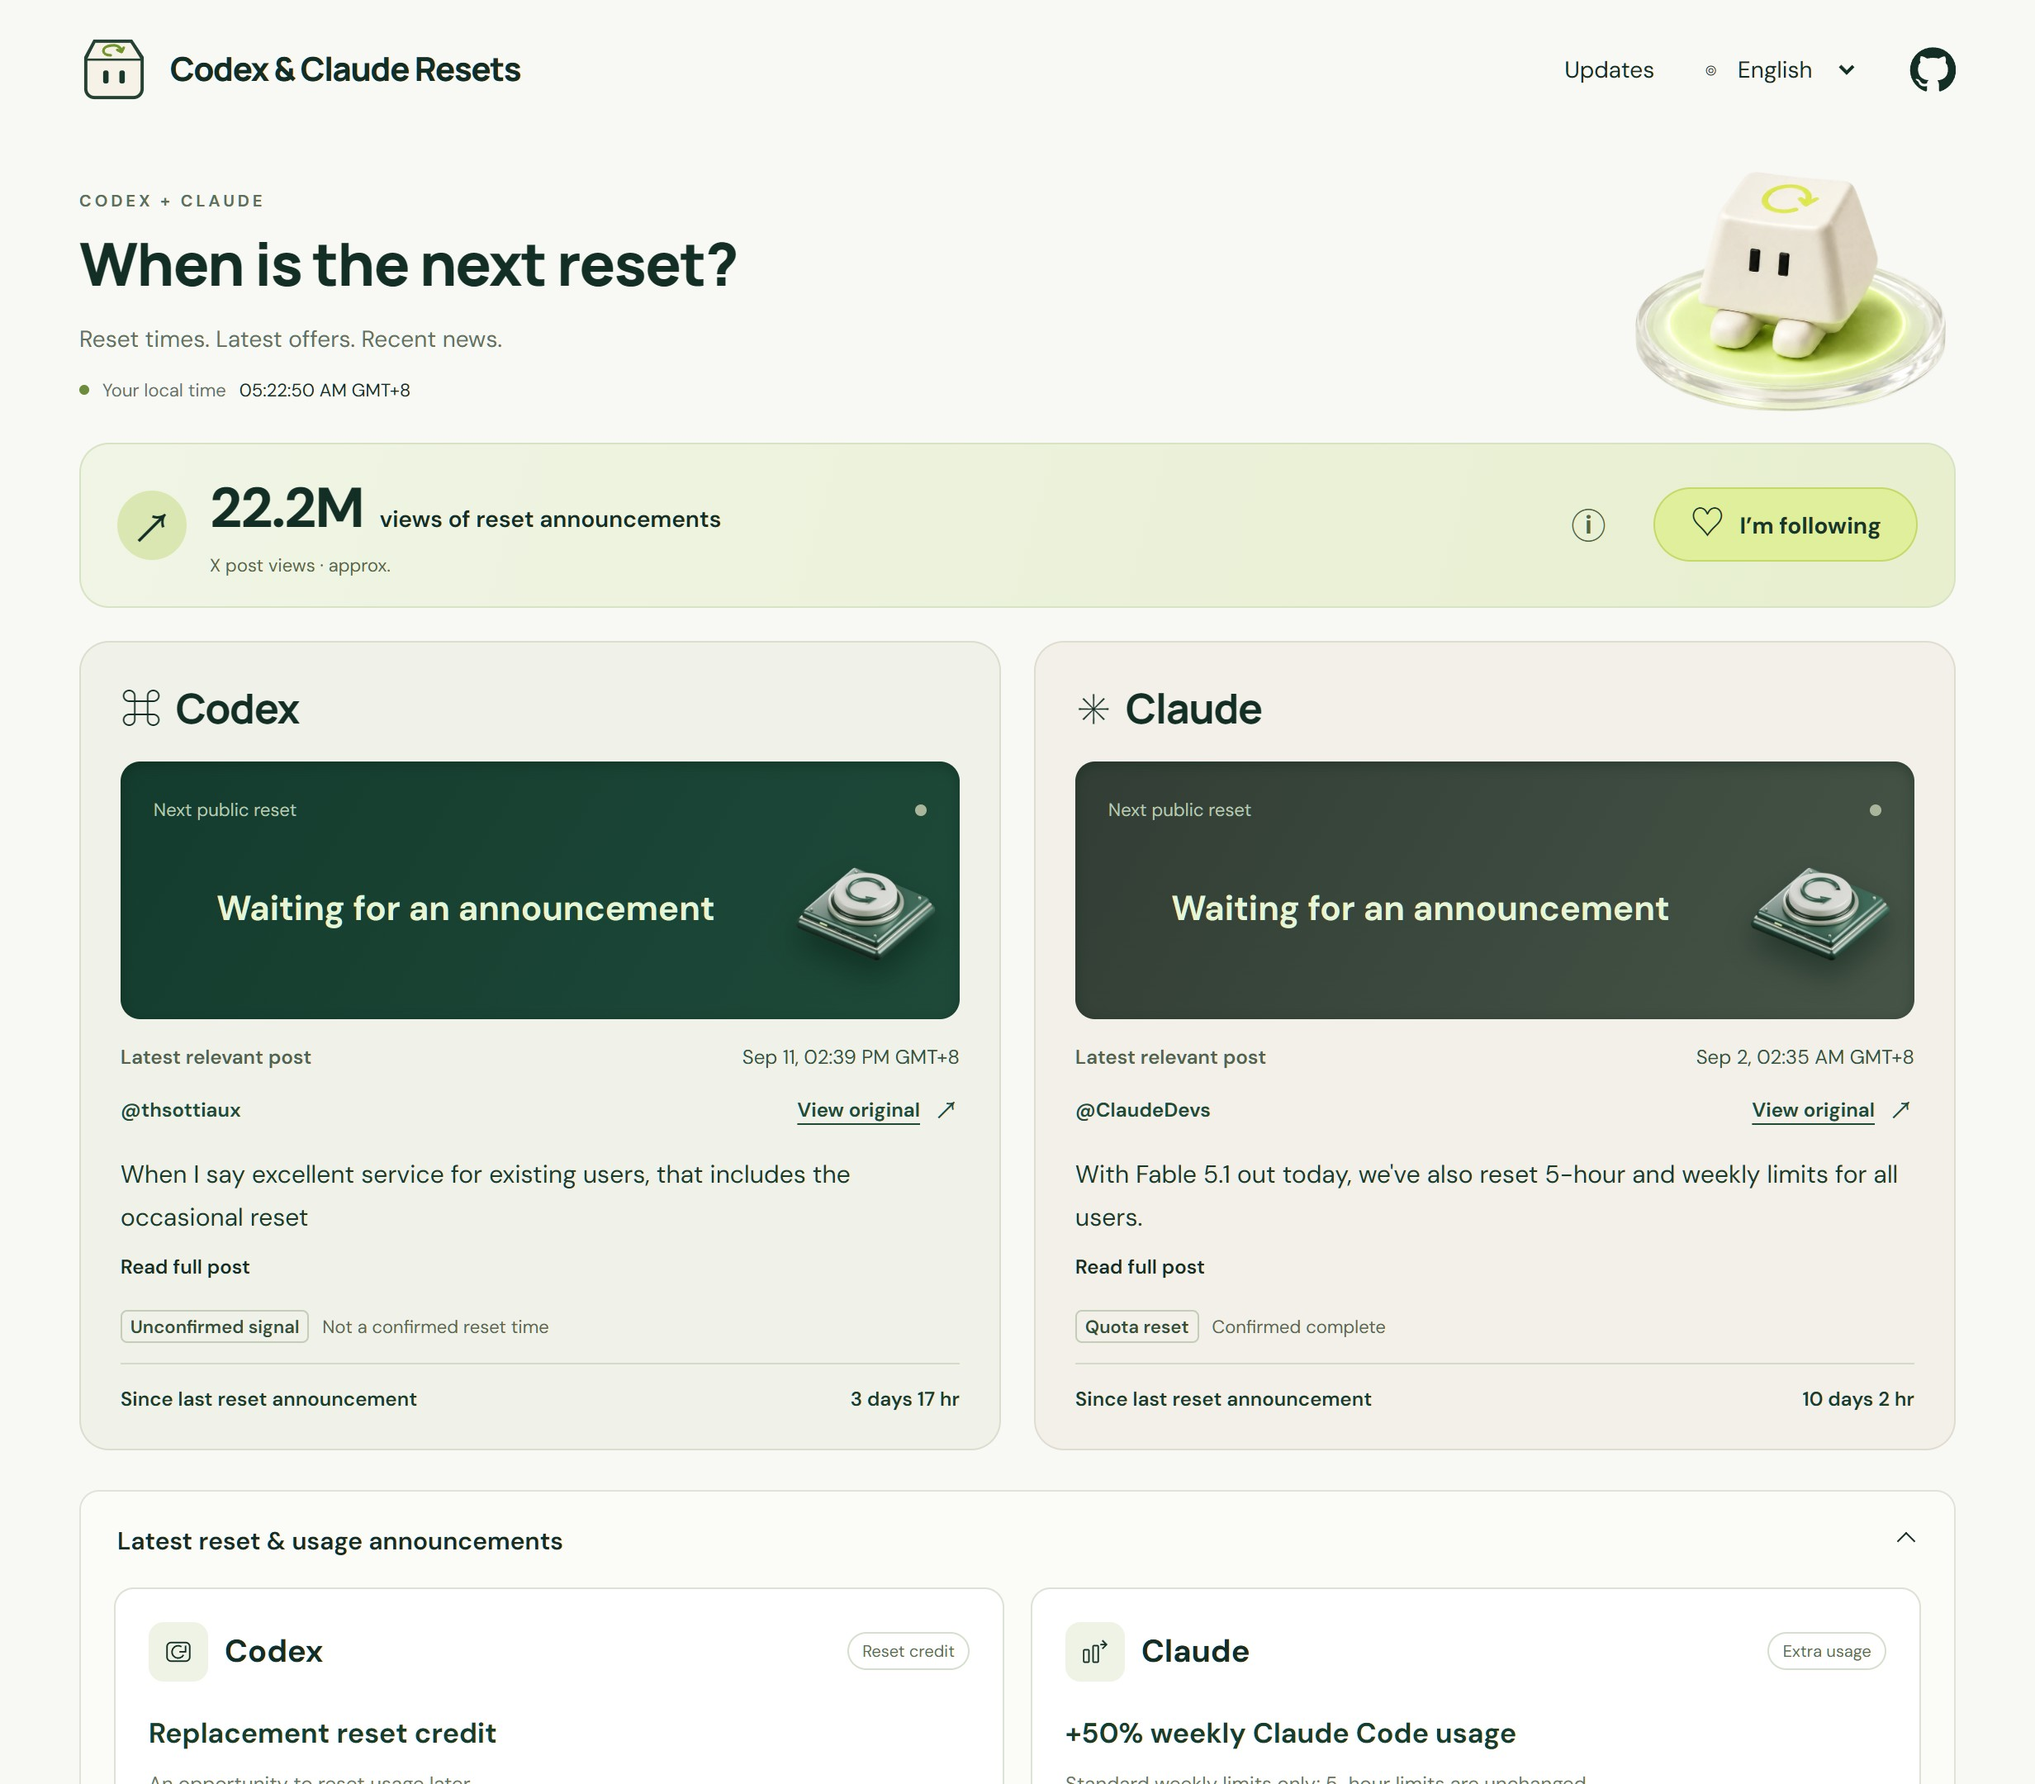
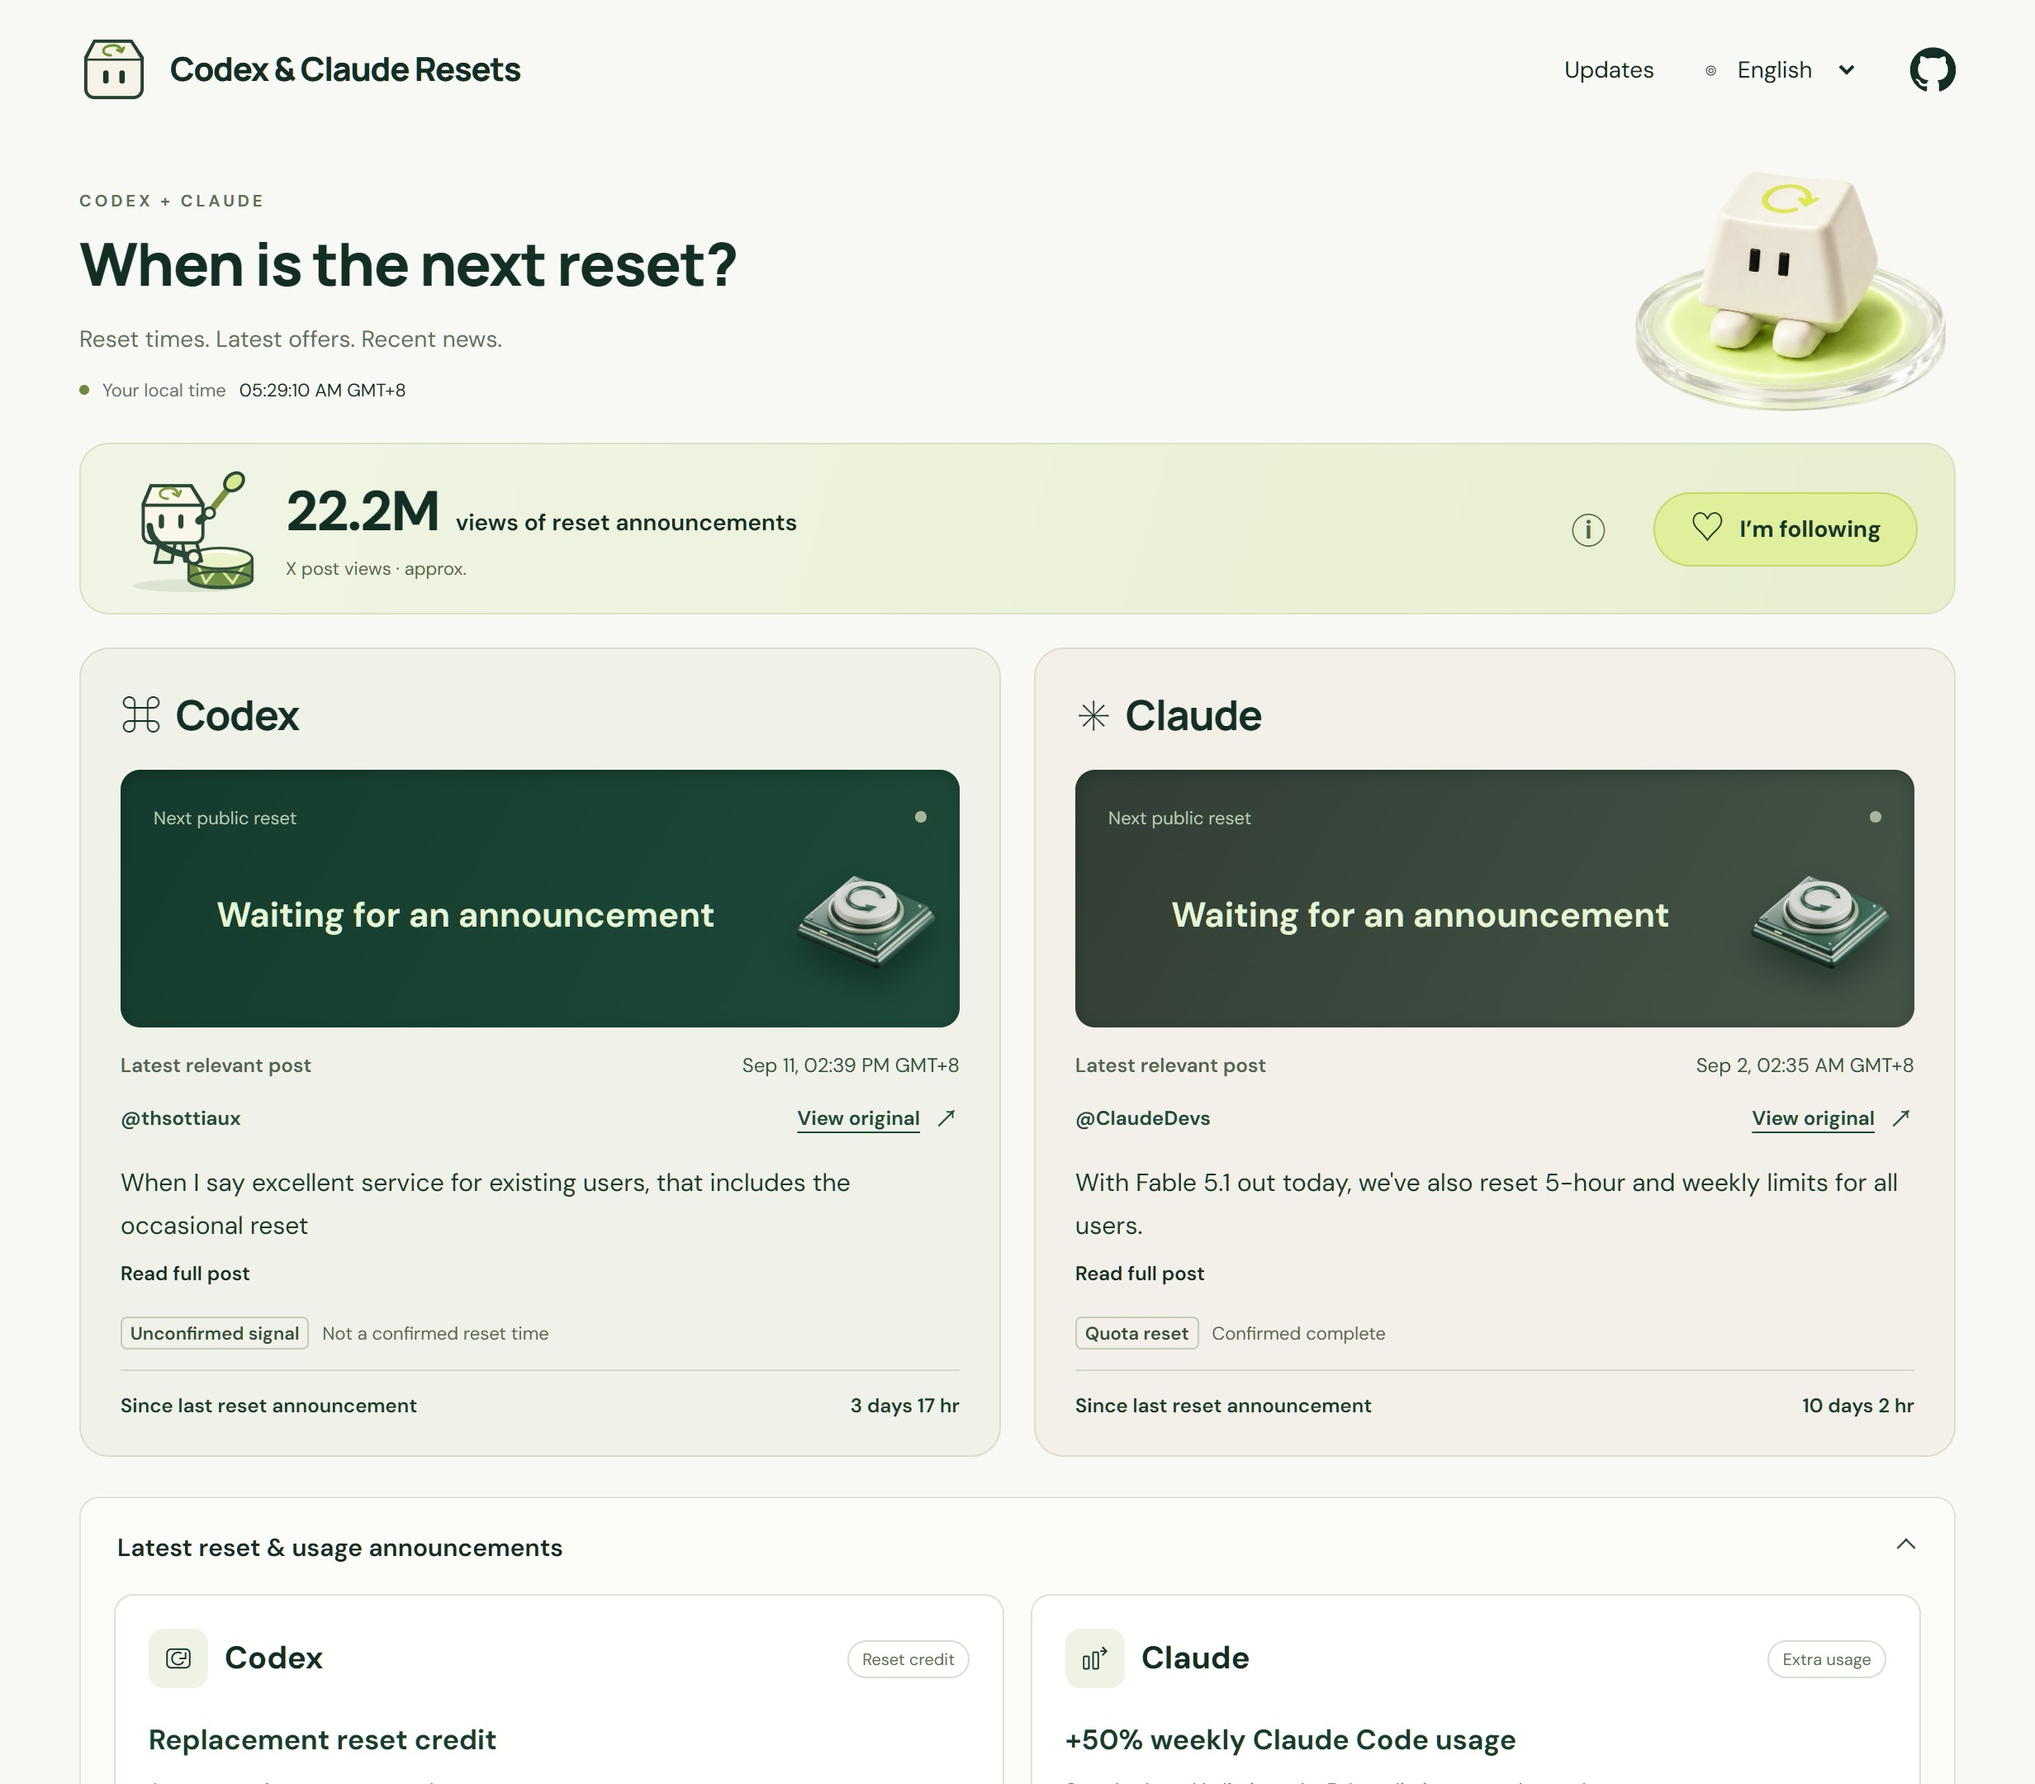
Add tappable keycap drummer with downward strike feedback

diff --git a/src/clocks.css b/src/clocks.css
@@ -46,3 +46,4 @@
 .offer-grid{align-items:stretch}.offer-card{display:flex;flex-direction:column;gap:0}.offer-card .offer-bottom{margin-top:auto}.offer-card>:nth-last-child(2){margin-bottom:17px}@media(max-width:650px){.offer-card>:nth-last-child(2){margin-bottom:14px}}
 .topic-heat{position:relative;display:flex;align-items:center;justify-content:space-between;flex-wrap:wrap;gap:12px 24px;margin:24px 0 20px;padding:18px 22px;border:1px solid #d7e3c3;border-radius:18px;background:linear-gradient(105deg,#f0f5e6,#e7efcf);color:var(--ink)}.heat-summary{display:flex;align-items:center;gap:14px;min-width:0;flex:1}.heat-mark{display:grid;place-items:center;width:42px;height:42px;flex-shrink:0;border-radius:50%;background:#dbe7b3;font-size:27px}.heat-metric{display:flex;align-items:baseline;flex-wrap:wrap;gap:4px 10px;line-height:1.25}.heat-metric strong{font-size:34px;font-weight:800;letter-spacing:-1px;font-variant-numeric:tabular-nums;white-space:nowrap}.heat-metric>span{font-size:14px;font-weight:600}.heat-caption{margin:5px 0 0;font-size:11px;color:#566647}.heat-actions{display:flex;align-items:center;gap:14px}.heat-follow{display:flex;align-items:center;justify-content:center;gap:9px;min-height:44px;padding:11px 21px;border:1px solid #c5d969;border-radius:999px;background:#dfef9b;color:#18372a;font:inherit;font-size:14px;font-weight:750;cursor:pointer}.heat-follow:hover{background:#d3e786;border-color:#a9c14e}.heat-follow[aria-pressed=true]{background:#204e3d;color:#f3f9e8;border-color:#204e3d}.heat-follow [data-heat-icon]{font-size:21px;line-height:1}.heat-follow:disabled{opacity:.6;cursor:wait}.heat-follow:focus-visible,.heat-sources summary:focus-visible{outline:3px solid #537833;outline-offset:4px}.heat-sources{position:static}.heat-sources summary{list-style:none;display:grid;place-items:center;width:36px;height:44px;cursor:pointer;font-size:21px;color:#526641}.heat-sources summary::-webkit-details-marker{display:none}.heat-popover{position:absolute;z-index:20;top:calc(100% + 8px);inset-inline-end:0;width:min(390px,100%);padding:20px;background:#fffef9;border:1px solid #d5dfc4;border-radius:14px;box-shadow:0 12px 30px #193d2520;font-size:13px;line-height:1.6}.heat-popover p{margin:9px 0}.heat-popover ul{padding-inline-start:18px;margin-bottom:0}.heat-popover a{color:#285c47;text-decoration:underline;text-underline-offset:3px}.heat-feedback{flex-basis:100%;margin:0;text-align:end;font-size:12px;color:#4b6242}.heat-feedback[hidden]{display:none}@media(max-width:600px){.topic-heat{margin:20px 0 16px;padding:16px;gap:14px}.heat-summary{flex-basis:100%;gap:11px}.heat-metric strong{font-size:31px}.heat-metric>span{font-size:13px}.heat-actions{width:100%;justify-content:space-between;flex-direction:row-reverse}.heat-follow{flex:1}.heat-feedback{text-align:start}}@media(prefers-reduced-motion:no-preference){.heat-follow{transition:background .18s,transform .18s}.heat-follow:active{transform:scale(.97)}}
 .heat-sources summary{padding:0;margin:0;border:0;min-height:44px;border-radius:50%}
+.heat-drummer{width:88px;height:86px;flex:0 0 88px;border:0;padding:0;margin:-10px 0;background:transparent;border-radius:16px;cursor:pointer;color:inherit;touch-action:manipulation}.heat-drummer svg{display:block;width:100%;height:100%;overflow:visible;pointer-events:none}.heat-drummer:focus-visible{outline:3px solid #537833;outline-offset:3px}.heat-drummer:hover{background:#dce9b54d}.heat-drummer:disabled{cursor:default}.drummer-arm{transform-box:view-box;transform-origin:65px 48px}.drummer-body{transform-box:view-box;transform-origin:43px 61px}.drummer-drum{transform-box:view-box;transform-origin:79.5px 77px}.drummer-impact{opacity:0;transform-box:view-box;transform-origin:91px 70px}@media(max-width:600px){.heat-drummer{width:76px;height:76px;flex-basis:76px;margin:-4px 0}.heat-summary{gap:10px}.heat-metric strong{font-size:29px}}

diff --git a/docs/topic-heat.md b/docs/topic-heat.md
@@ -3,3 +3,5 @@
 The homepage sums the X view counts of six existing, verified reset announcements across Codex and Claude. `data/topic-heat.json` stores the source URLs, per-post counts and observation time; the homepage source disclosure shows all six links and the date. Counts were retrieved from FxEmbed. They include repeated views and are neither unique people nor this site's traffic. This is a dated snapshot, not a live counter or an extrapolation to all platforms. Refresh it only with a complete, validated source snapshot.
 
 The follow button currently saves an explicit on/off preference in this browser's local storage, shared across the site's languages. It does not send notifications, increment the X metric or claim a global follower total. Shared persistence and anti-abuse controls require a separate backend before site-wide follower totals can be offered to advertisers.
+
+The site's keycap mascot plays a 620 ms drum hit on follow, and can be tapped independently to replay. Repeated taps restart a single animation; reduced-motion mode uses only a brief opacity cue. No audio plays and drumming never changes the view metric or the follow preference.
